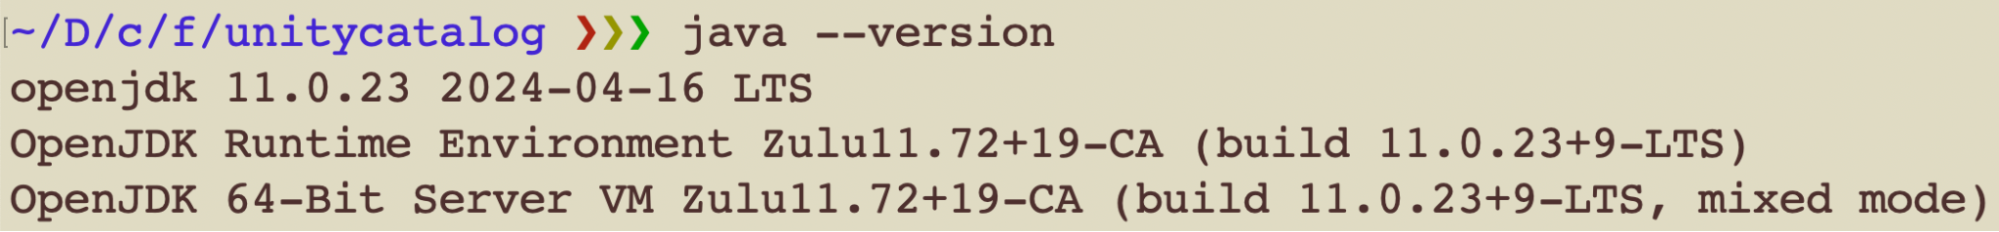
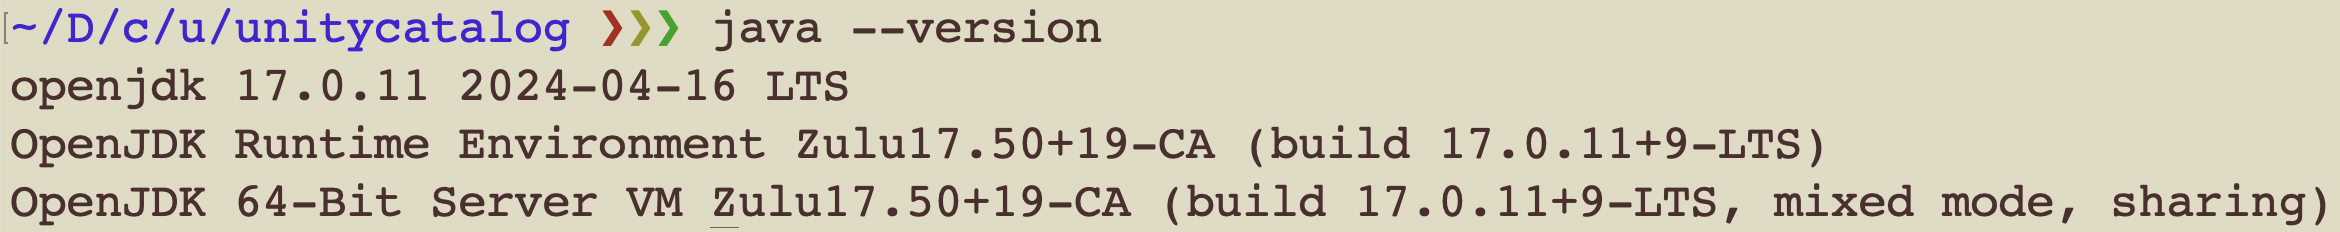
Upgrade to Java 17. (#210)
**PR Checklist**

- [X] A description of the changes is added to the description of this
PR.
- [X] If there is a related issue, make sure it is linked to this PR.
- [ ] If you've fixed a bug or added code that should be tested, add
tests!
- [X] If you've added or modified a feature, documentation in `docs` is
updated

**Description of changes**

This work is to just upgrade to Java 17 for the benefits listed in Issue
https://github.com/unitycatalog/unitycatalog/issues/209

diff --git a/README.md b/README.md
@@ -54,7 +54,7 @@ Let's take Unity Catalog for spin. In this guide, we are going to do the followi
 ### Prerequisites
 You have to ensure that your local environment has the following:
 - Clone this repository.
-- Ensure the `JAVA_HOME` environment variable your terminal is configured to point to JDK11+.
+- Ensure the `JAVA_HOME` environment variable your terminal is configured to point to JDK17+.
 - Compile the project using `build/sbt package`
 
 ### Run the UC Server
@@ -143,7 +143,7 @@ See the [cli usage](docs/usage/cli.md) for more details.
   This will create a tarball in the `target` directory. See the full [deployment guide](docs/deployment.md) for more details.
 
 ## Compiling and testing
-- Install JDK 11 by whatever mechanism is appropriate for your system, and
+- Install JDK 17 by whatever mechanism is appropriate for your system, and
   set that version to be the default Java version (e.g., by setting env variable
   JAVA_HOME)
 - To compile all the code without running tests, run the following:

diff --git a/docs/quickstart.md b/docs/quickstart.md
@@ -16,7 +16,7 @@ Change into the `unitycatalog` directory and run `bin/start-uc-server` to instan
 
 Well, that was pretty easy!
 
-To run Unity Catalog, you need Java 11 installed on your machine.  You can always run the `java --version` command to verify that you have the right version of Java installed.
+To run Unity Catalog, you need Java 17 installed on your machine.  You can always run the `java --version` command to verify that you have the right version of Java installed.
 
 ![UC Java Version](./assets/images/uc_java_version.png)
 
